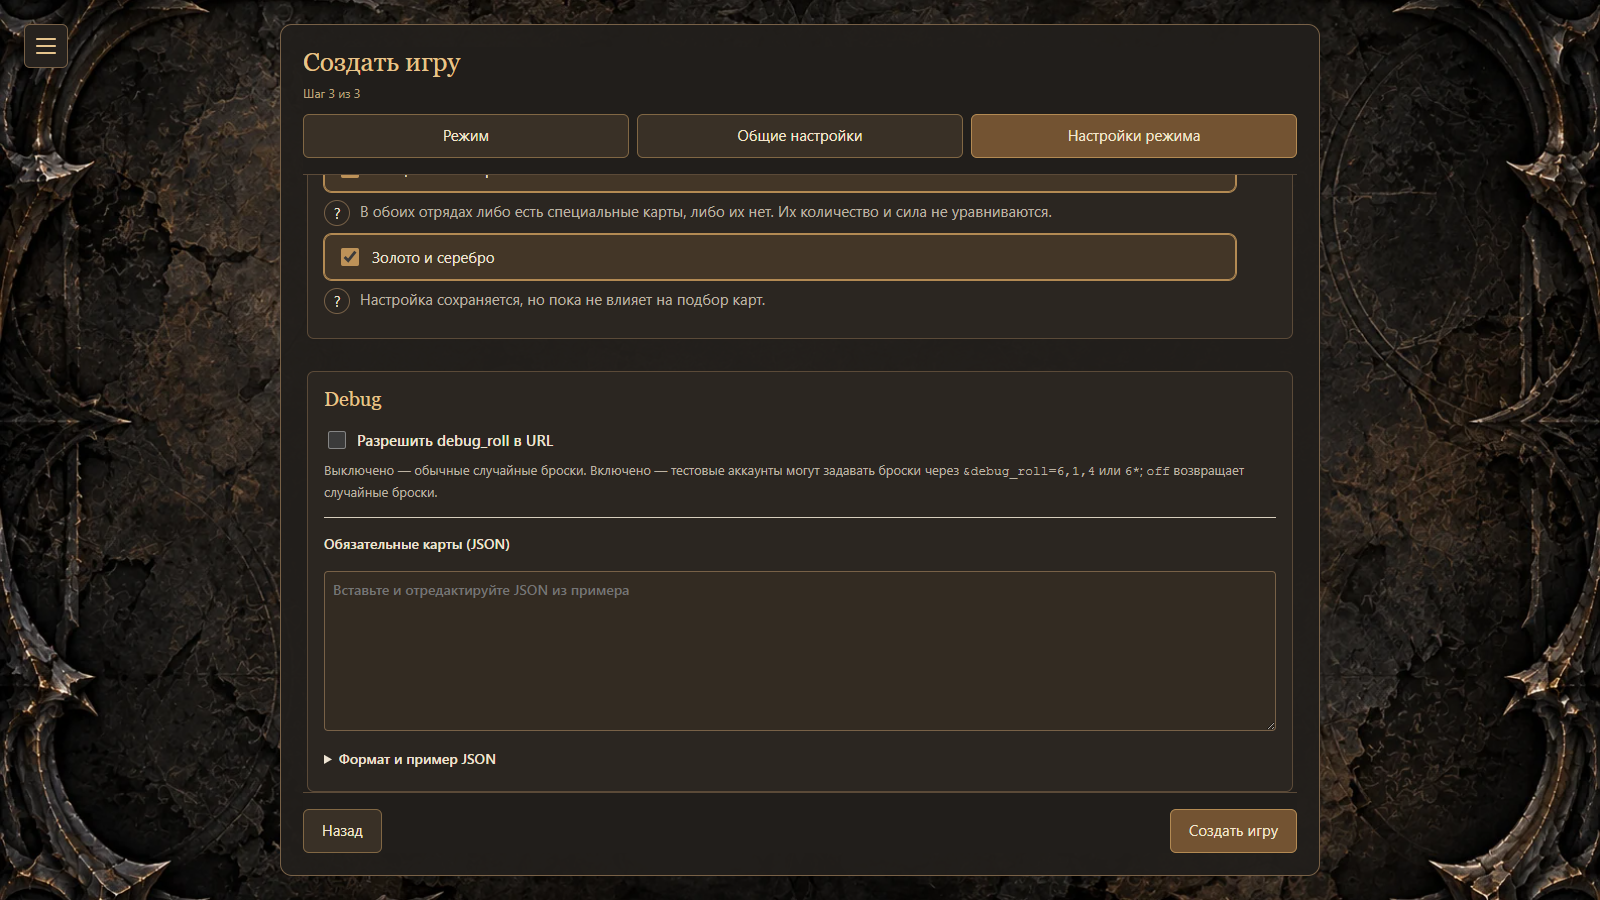
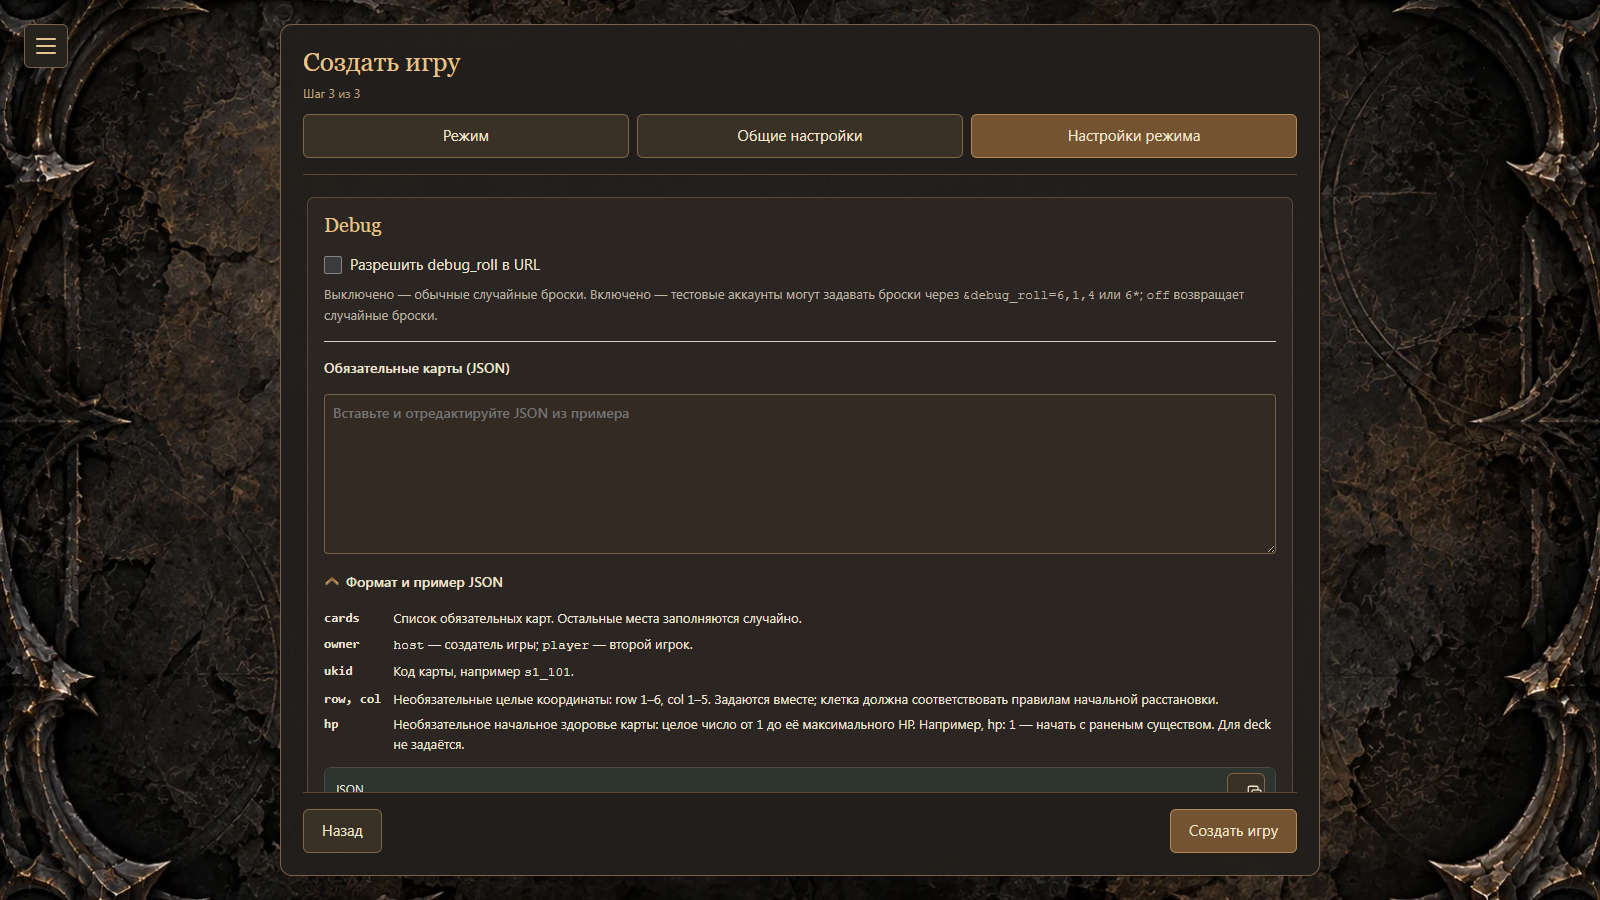
Align LuckTest controls and balance separate currency totals

diff --git a/www/assets/css/lobby-wizard.css b/www/assets/css/lobby-wizard.css
@@ -9,4 +9,4 @@
 @media(prefers-reduced-motion:reduce){.wizard-booster-composition .wizard-chevron{transition:none}}
 .create-wizard .wizard-debug input:not([type=checkbox]):not([type=hidden]),.create-wizard .wizard-debug textarea{box-sizing:border-box;max-width:100%;background:#332b22;color:#eee4d3;border:1px solid #786147;border-radius:4px;padding:8px;font:inherit}.create-wizard .wizard-debug textarea{width:100%}.create-wizard .wizard-debug label{display:flex;gap:8px}.create-wizard .wizard-debug .debug-json-label{flex-direction:column}.create-wizard .wizard-debug .debug-help{color:#bdb3a3;line-height:1.5}
 
-.create-wizard .wizard-balance-row{display:grid;grid-template-columns:minmax(0,1fr) 32px;gap:8px;align-items:start;margin:8px 0}.wizard-setting-help summary{display:flex;align-items:center;justify-content:center;width:24px;height:24px;border:1px solid #786147;border-radius:50%;cursor:pointer;list-style:none}.wizard-setting-help summary::-webkit-details-marker{display:none}.wizard-setting-help[open]{grid-column:1/-1;display:flex;gap:10px;align-items:start}.wizard-setting-help p{margin:0;color:#bdb3a3;line-height:1.5}
+.create-wizard .wizard-balance-row{margin:12px 0}.create-wizard .wizard-check{display:flex;align-items:center;gap:8px;padding:0;background:none;border:0;font-weight:400;cursor:pointer}.create-wizard .wizard-check input[type=checkbox]{flex:0 0 18px;width:18px;height:18px;margin:0;accent-color:#bd9258}.create-wizard .wizard-check span{font-weight:400}.create-wizard :is(.wizard-balance-row,.wizard-debug) .debug-help{font-size:13px;color:#bdb3a3;line-height:1.5;margin:8px 0 12px}.create-wizard .debug-json-help summary{display:flex;align-items:center;gap:6px;list-style:none;cursor:pointer}.create-wizard .debug-json-help summary::-webkit-details-marker{display:none}.create-wizard .debug-json-help .wizard-chevron{width:16px;height:16px;flex:0 0 16px;transform:scaleY(1);transition:transform .16s ease}.create-wizard .debug-json-help[open] .wizard-chevron{transform:scaleY(-1)}

diff --git a/src/View/Ui/LobbyWizard.php b/src/View/Ui/LobbyWizard.php
@@ -54,7 +54,9 @@ final class LobbyWizard
     {
         $debug='';
         $body=preg_replace_callback('/<fieldset class="settings-fieldset debug-fieldtest"><legend>Debug<\/legend>(.*?)<\/fieldset>/s',static function(array $m) use (&$debug): string {
-            $debug='<section class="settings-section wizard-debug"><h2>Debug</h2>'.$m[1].'</section>';return '';
+            $fields=str_replace('class="debug-url-toggle"','class="debug-url-toggle wizard-check"',$m[1]);
+            $fields=str_replace('<summary>Формат и пример JSON</summary>','<summary><img class="wizard-chevron" src="assets/images/berserk-chevron-gold.svg" width="16" height="16" alt="" aria-hidden="true"><span>Формат и пример JSON</span></summary>',$fields);
+            $debug='<section class="settings-section wizard-debug"><h2>Debug</h2>'.$fields.'</section>';return '';
         },$body);
         $body=preg_replace('/<input type="hidden" name="lucktest_(?:balanced|quick_game)" value="0"><label class="settings-option">.*?<\/label>/s','',$body);
         $start='<section class="settings-section"><h2>Основные настройки</h2><fieldset class="settings-fieldset"><legend>Начать игру</legend><div class="settings-option-grid">';
@@ -63,10 +65,10 @@ final class LobbyWizard
         }
         $start.='</div></fieldset></section>';
         $balance='<section class="settings-section"><h2>Балансировка</h2>';
-        foreach (['balanced'=>['Специальные карты','В обоих отрядах либо есть специальные карты, либо их нет. Их количество и сила не уравниваются.'],
-            'balance_metals'=>['Золото и серебро','Настройка сохраняется, но пока не влияет на подбор карт.']] as $key=>[$label,$help]) {
-            $balance.='<div class="wizard-balance-row"><input type="hidden" name="lucktest_'.$key.'" value="0"><label class="settings-option"><input type="checkbox" name="lucktest_'.$key.'" value="1" checked><span>'.$label.'</span></label>'
-                .'<details class="wizard-setting-help"><summary aria-label="Пояснение: '.$label.'">?</summary><p>'.$help.'</p></details></div>';
+        foreach (['balanced'=>['Летающие существа, пингеры','Наличие или отсутствие пингеров и летающих существ в обоих отрядах, сила не уравнивается'],
+            'balance_metals'=>['Золото и серебро','Количество кристаллов на отряд будет приблизительно одинаково']] as $key=>[$label,$help]) {
+            $balance.='<div class="wizard-balance-row"><input type="hidden" name="lucktest_'.$key.'" value="0"><label class="wizard-check"><input type="checkbox" name="lucktest_'.$key.'" value="1" checked><span>'.$label.'</span></label>'
+                .'<p class="debug-help">'.$help.'</p></div>';
         }
         $balance.='</section>';
         $body=str_replace('<section class="settings-section"><h2>Готовые случайные отряды</h2>',$start.'<section class="settings-section"><h2>Готовые случайные отряды</h2>',$body);

diff --git a/src/Core/Prepare/LuckTestGenerator.php b/src/Core/Prepare/LuckTestGenerator.php
@@ -44,6 +44,9 @@ final class LuckTestGenerator
             if (!$possible) continue;
             $host = $this->search($catalog, $ordinary, $special, $count, $target, $category, $fixed['host']);
             $player = $this->search($catalog, $ordinary, $special, $count, $target, $category, $fixed['player']);
+            if ($settings->lucktest['balance_metals']) {
+                $this->balanceMetals($host,$player,$catalog,$fixed,$category,$target);
+            }
             if ($settings->lucktest['balanced'] && !self::isBalanced($host, $player)) {
                 throw new \RuntimeException('Не удалось сбалансировать LuckTest');
             }
@@ -55,6 +58,36 @@ final class LuckTestGenerator
         }
         if ($best === null) throw new \DomainException('Сценарий LuckTest: балансировка обязательных карт невозможна');
         return $best;
+    }
+
+    /** Improve separate currency totals without sacrificing the existing cost target or fixed cards. */
+    private function balanceMetals(array &$host, array &$player, array $catalog, array $fixed, ?bool $category, float $target): void
+    {
+        $totals=static function(array $cards): array {
+            $sum=[0,0];foreach ($cards as $card) $sum[!empty($card['elite'])?0:1]+=$card['price'];return $sum;
+        };
+        $distance=static function(array $a,array $b) use ($totals): float {
+            $a=$totals($a);$b=$totals($b);return abs($a[0]-$b[0])+abs($a[1]-$b[1]);
+        };
+        $error=abs($this->cost($host)-$target)+abs($this->cost($player)-$target);
+        $difference=$distance($host,$player);
+        foreach (['host','player'] as $owner) {
+            $cards=&${$owner};
+            for ($i=count($fixed[$owner]);$i<count($cards);$i++) {
+                for ($attempt=0;$attempt<self::REPLACEMENTS_PER_CARD;$attempt++) {
+                    $previous=$cards[$i];$replacement=$this->pick($catalog);
+                    if ($category===false && self::isSpecial($replacement)) continue;
+                    $cards[$i]=$replacement;
+                    $nextError=abs($this->cost($host)-$target)+abs($this->cost($player)-$target);
+                    $nextDifference=$distance($host,$player);
+                    if (($category===true && !self::hasSpecial($cards)) || $nextError>$error || $nextDifference>=$difference) {
+                        $cards[$i]=$previous;continue;
+                    }
+                    $error=$nextError;$difference=$nextDifference;
+                }
+            }
+            unset($cards);
+        }
     }
 
     /** Random reserve order is the creation/instanceId order consumed by ProphecyProcessor. */

diff --git a/www/lobby.php b/www/lobby.php
@@ -80,7 +80,7 @@ if ($api) {
 }
 header('Content-Type: text/html; charset=utf-8');
 ?>
-<!doctype html><html lang="ru"><head><meta charset="utf-8"><meta name="viewport" content="width=device-width,initial-scale=1"><title>Berserk — лобби</title><link rel="stylesheet" href="assets/css/global.css"><link rel="stylesheet" href="assets/css/auth.css"><link rel="stylesheet" href="assets/css/lobby.css?v=8"><link rel="stylesheet" href="assets/css/lobby-wizard.css?v=7"><link rel="stylesheet" href="assets/css/pregame.css?v=2"><script src="assets/js/settings.js?v=2" defer></script><script src="assets/js/lobby-room.js?v=5" defer></script><script src="assets/js/lobby.js?v=11" defer></script><script src="assets/js/lobby-wizard.js?v=1" defer></script><?php if (isset($_GET['room'])): ?><link rel="stylesheet" href="assets/css/battle-ui-skins.css?v=14"><link rel="stylesheet" href="assets/css/lobby-room.css?v=5"><link rel="stylesheet" href="assets/css/battle-chat.css?v=2"><?php endif; ?></head><body class="lobby-page<?= isset($_GET['room']) ? ' room-page' : '' ?>">
+<!doctype html><html lang="ru"><head><meta charset="utf-8"><meta name="viewport" content="width=device-width,initial-scale=1"><title>Berserk — лобби</title><link rel="stylesheet" href="assets/css/global.css"><link rel="stylesheet" href="assets/css/auth.css"><link rel="stylesheet" href="assets/css/lobby.css?v=8"><link rel="stylesheet" href="assets/css/lobby-wizard.css?v=8"><link rel="stylesheet" href="assets/css/pregame.css?v=2"><script src="assets/js/settings.js?v=2" defer></script><script src="assets/js/lobby-room.js?v=5" defer></script><script src="assets/js/lobby.js?v=11" defer></script><script src="assets/js/lobby-wizard.js?v=1" defer></script><?php if (isset($_GET['room'])): ?><link rel="stylesheet" href="assets/css/battle-ui-skins.css?v=14"><link rel="stylesheet" href="assets/css/lobby-room.css?v=5"><link rel="stylesheet" href="assets/css/battle-chat.css?v=2"><?php endif; ?></head><body class="lobby-page<?= isset($_GET['room']) ? ' room-page' : '' ?>">
 <?= \Berserk\View\Ui\GameMenu::render((isset($_GET['new'])||isset($_GET['room']))?'preparation':'lobby',$account,$csrf) ?>
 <main id="lobby" class="screen lobby<?= isset($_GET['new']) ? ' lobby--wizard' : (isset($_GET['room']) ? ' lobby--room' : '') ?>" data-state="<?= $escape(json_encode($data,JSON_UNESCAPED_UNICODE|JSON_THROW_ON_ERROR)) ?>" data-csrf="<?= $escape($csrf) ?>" data-authenticated="<?= $account ? '1' : '0' ?>" data-wizard="<?= $wizard !== '' ? '1' : '0' ?>">
 <p id="notice" role="status"><?= $escape($error ?? '') ?></p>

diff --git a/tools/test_lucktest_metals.php b/tools/test_lucktest_metals.php
@@ -1,0 +1,30 @@
+<?php
+declare(strict_types=1);
+require __DIR__.'/test_lucktest.php';
+
+$catalog=[];
+foreach ([3,5,8] as $price) foreach ([false,true] as $gold) {
+    $card=card('metal_'.$price.'_'.(int)$gold,$price);$card['elite']=$gold;$catalog[]=$card;
+}
+$currency=static function(array $cards): array {
+    $sum=[0,0];foreach ($cards as $c) $sum[$c['elite']?0:1]+=$c['price']*$c['count'];return $sum;
+};
+$difference=static function(array $squads) use ($currency): int {
+    $a=$currency($squads['host']);$b=$currency($squads['player']);return abs($a[0]-$b[0])+abs($a[1]-$b[1]);
+};
+$improved=0;
+foreach (range(1,24) as $seed) {
+    $outputs=[];
+    foreach ([false,true] as $enabled) {
+        mt_srand($seed);
+        $settings=\Berserk\Core\GameSettings::defaults();
+        $settings->lucktest['balanced']=false;$settings->lucktest['balance_metals']=$enabled;
+        $outputs[]=(new \Berserk\Core\Prepare\LuckTestGenerator(static fn(int $min,int $max): int=>mt_rand($min,$max)))->generate($catalog,$settings);
+    }
+    check($difference($outputs[1])<=$difference($outputs[0]),'currency balance does not worsen');
+    $errors=array_map(static fn(array $s): int=>abs(cost($s['host'])-25)+abs(cost($s['player'])-25),$outputs);
+    check($errors[1]<=$errors[0],'total cost target always retained');
+    if ($difference($outputs[1])<$difference($outputs[0])) $improved++;
+}
+check($improved>0,'separate gold and silver totals improve');
+echo "Metals: 49 checks passed; improved $improved of 24 seeded squads.\n";

diff --git a/docs/lucktest-wizard-stage1.md b/docs/lucktest-wizard-stage1.md
@@ -33,3 +33,11 @@
 Доказательства и реальные скриншоты: `docs/evidence/lucktest-wizard/`. Каталог и аккаунты изолированного стенда тестовые, production не использовался.
 
 Общая отложенная HTTP-регрессия боевого таймера остаётся непроверенной. Миграции и deploy не выполнялись. Алгоритм генерации отрядов и карт, кристаллы и фора не менялись.
+
+## Уточнение после визуального ревью
+
+Галочки балансировки и Debug используют один стиль. Пояснения выведены постоянно под настройками вместо вопросительных хинтов. Название первой настройки — «Летающие существа, пингеры». Пример JSON использует утверждённый золотой SVG.
+
+После отдельного уточнения пользователя balance_metals теперь работает: дополнительный ограниченный поиск замен сближает отдельно суммы золота и серебра отрядов. Он принимает замену только при уменьшении валютного расхождения и без увеличения суммарного отклонения от прежней целевой стоимости отрядов. Фиксированные Debug-карты и выбранная категория специальных карт сохраняются. При выключенной галочке выполняется прежний подбор по общей стоимости, базовый баланс не отключается. Равенство валют не гарантируется: это приблизительный подбор, в том числе при ограниченном каталоге или обязательных картах.
+
+`tools/test_lucktest_metals.php`: 49 проверок на 24 фиксированных seed; расхождение уменьшилось в 22 случаях, в остальных не увеличилось; базовая целевая стоимость не ухудшилась. Эти проверки выполняются отдельно от DB/HTTP.
